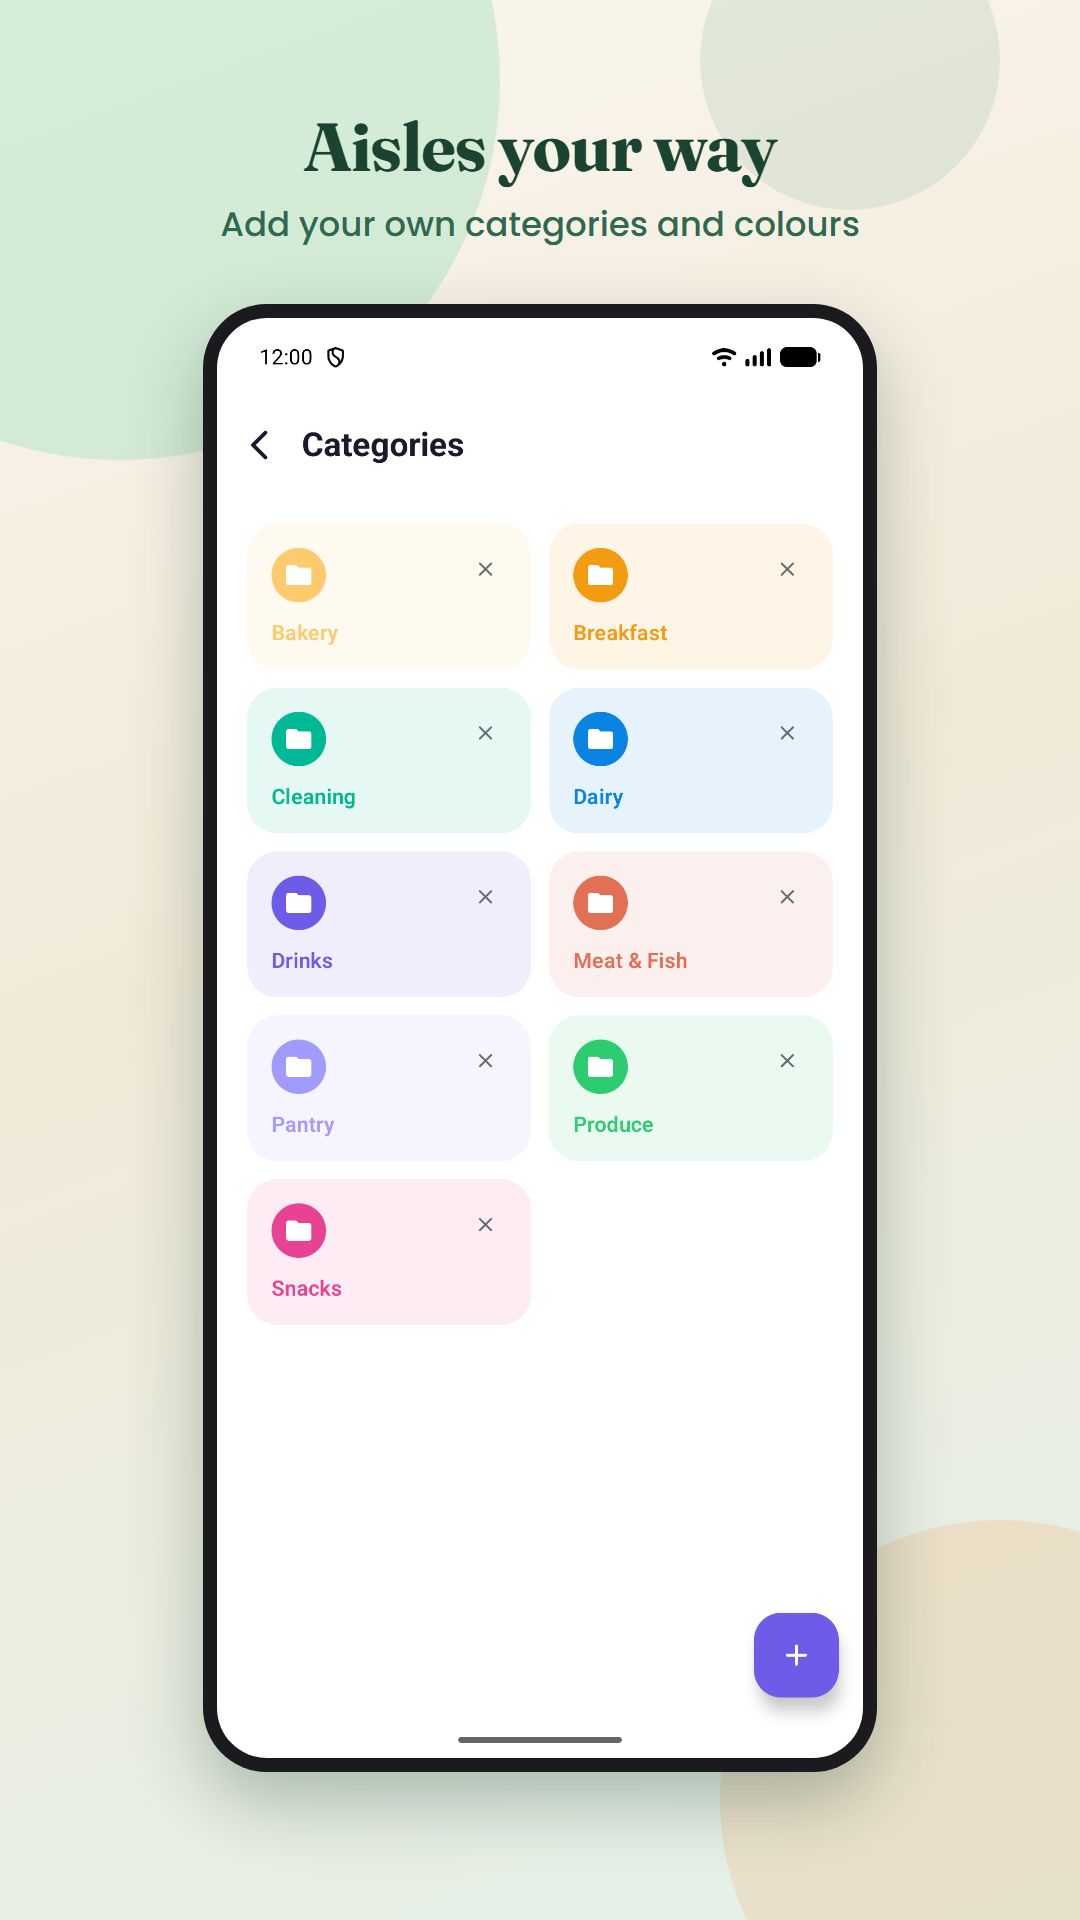
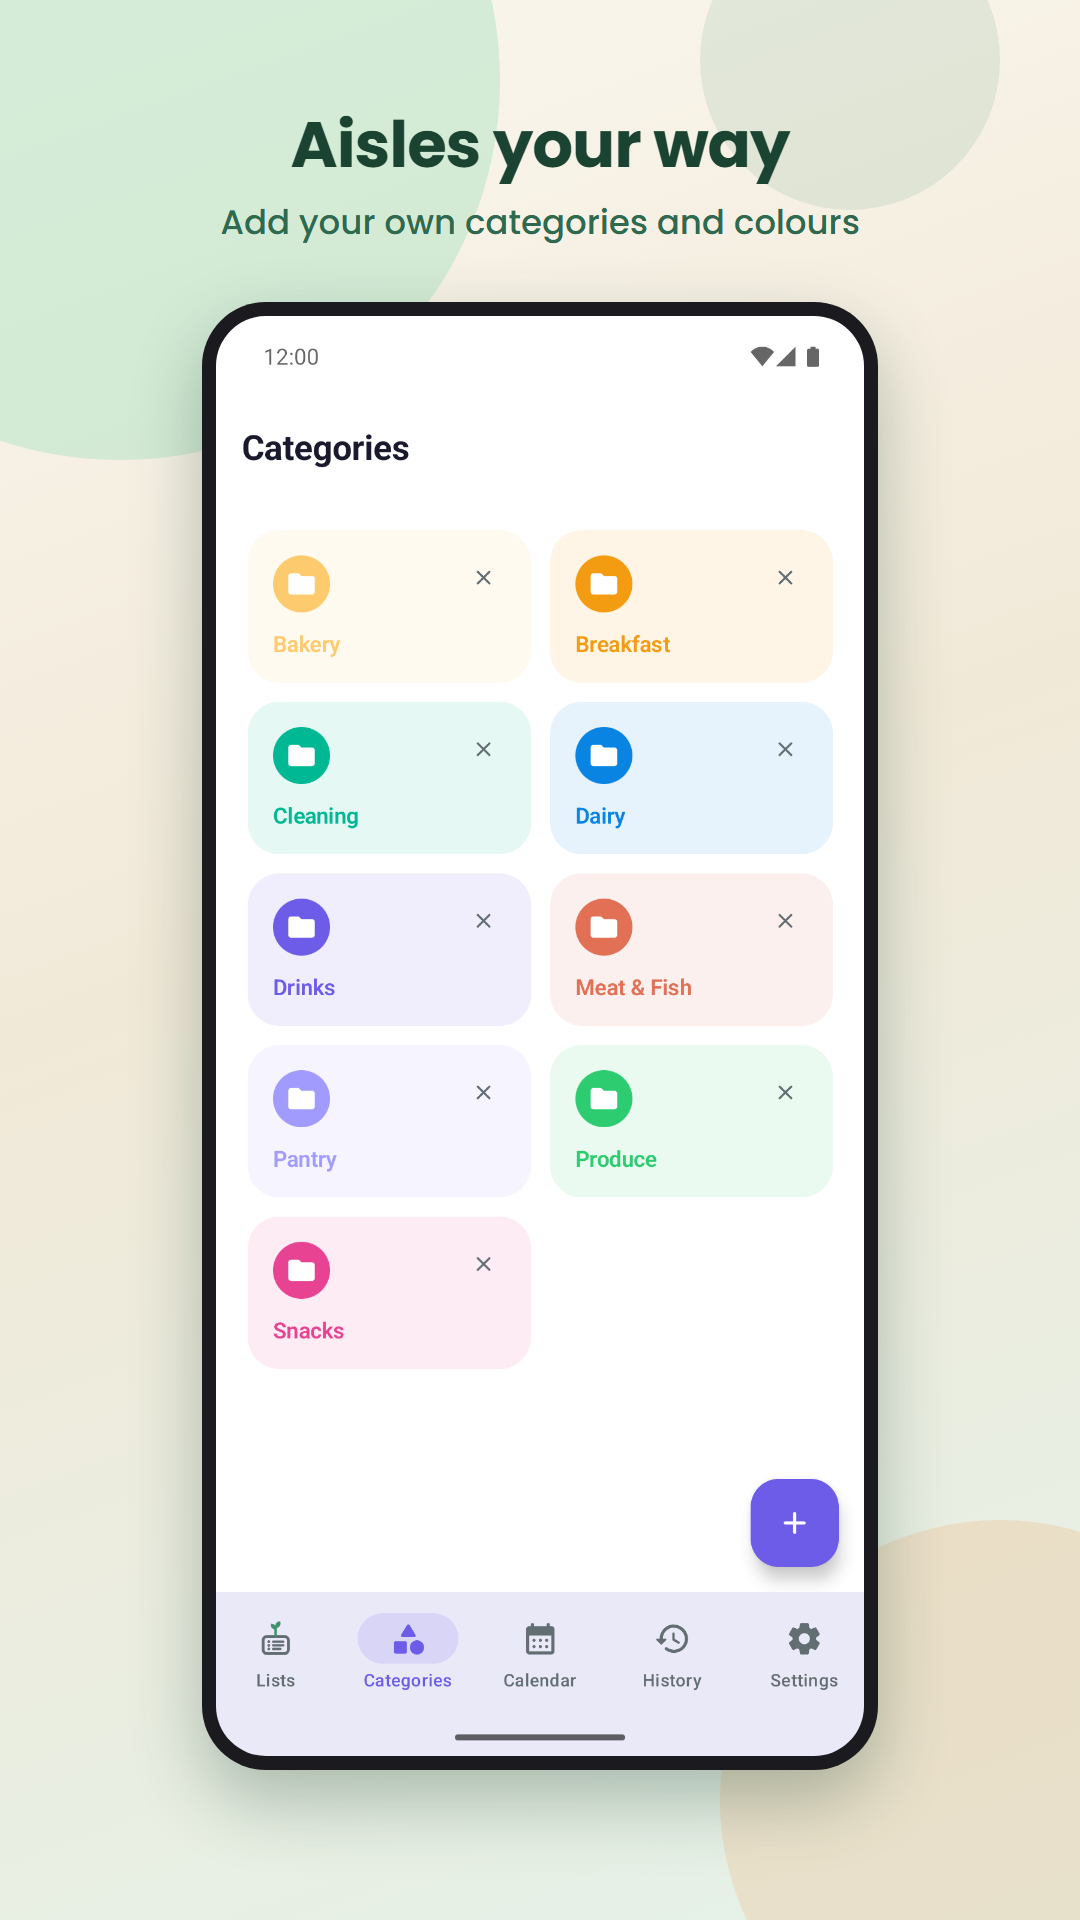
Refresh the store screenshots and README, add a demo data seeder
Retakes all phone screenshots for the current app (bottom navigation,
Bought section, list actions, region currency, Poppins titles) and adds
a seventh one showing the budget. Two accents are used to show theming.
The Play frame captions switch from Fraunces to Poppins to match the
app. The README shows the budget screenshot and describes the Bought
section and list actions.

The demo lists come from a debug-only broadcast receiver that seeds an
empty install, so the screenshots can be reproduced with one command.

diff --git a/app/src/debug/java/com/listo/app/debug/DemoDataReceiver.kt b/app/src/debug/java/com/listo/app/debug/DemoDataReceiver.kt
@@ -1,0 +1,153 @@
+package com.listo.app.debug
+
+import android.content.BroadcastReceiver
+import android.content.Context
+import android.content.Intent
+import android.util.Log
+import com.listo.app.data.models.ShoppingItem
+import com.listo.app.data.repository.CategoryRepository
+import com.listo.app.data.repository.ShoppingRepository
+import com.listo.app.domain.usecases.SeedCategoriesUseCase
+import com.listo.app.utils.GroceryCatalog
+import com.listo.app.utils.PreferencesManager
+import dagger.hilt.android.AndroidEntryPoint
+import kotlinx.coroutines.CoroutineScope
+import kotlinx.coroutines.Dispatchers
+import kotlinx.coroutines.flow.first
+import kotlinx.coroutines.launch
+import java.util.Calendar
+import javax.inject.Inject
+
+/**
+ * Debug builds only: fills an empty install with the demo lists used for the
+ * store screenshots and README.
+ *
+ *   adb shell am broadcast -a com.listo.app.debug.SEED_DEMO -p com.mopilappar.listo.debug
+ *
+ * Does nothing if any active list already exists, so it never mixes with real data.
+ */
+@AndroidEntryPoint
+class DemoDataReceiver : BroadcastReceiver() {
+
+    @Inject lateinit var shopping: ShoppingRepository
+    @Inject lateinit var categories: CategoryRepository
+    @Inject lateinit var seedCategories: SeedCategoriesUseCase
+    @Inject lateinit var prefs: PreferencesManager
+
+    override fun onReceive(context: Context, intent: Intent) {
+        val pending = goAsync()
+        CoroutineScope(Dispatchers.IO).launch {
+            try {
+                seed()
+            } finally {
+                pending.finish()
+            }
+        }
+    }
+
+    private suspend fun seed() {
+        if (shopping.getActiveLists().first().isNotEmpty()) {
+            Log.w(TAG, "Lists already exist; not seeding demo data")
+            return
+        }
+        if (!prefs.isCategoriesSeeded.first()) {
+            seedCategories()
+            prefs.setCategoriesSeeded(true)
+        }
+        val categoryIds = categories.getAllCategories().first().associate { it.name to it.id }
+
+        DemoData.lists.forEach { demo ->
+            val listId = shopping.createList(demo.name)
+            demo.budget?.let { shopping.setBudget(listId, it) }
+            demo.daysAhead?.let { days ->
+                val date = dayAt(days, DemoData.REMINDER_HOUR)
+                shopping.setSchedule(listId, scheduledDate = date, reminderAt = date)
+            }
+            demo.items.forEach { item ->
+                shopping.addItem(
+                    ShoppingItem(
+                        listId = listId,
+                        name = item.name,
+                        quantity = item.quantity,
+                        categoryId = categoryIds[item.category],
+                        price = item.price,
+                        isChecked = item.bought
+                    )
+                )
+            }
+        }
+        Log.i(TAG, "Seeded ${DemoData.lists.size} demo lists")
+    }
+
+    private fun dayAt(daysAhead: Int, hour: Int): Long = Calendar.getInstance().apply {
+        add(Calendar.DAY_OF_YEAR, daysAhead)
+        set(Calendar.HOUR_OF_DAY, hour)
+        set(Calendar.MINUTE, 0)
+        set(Calendar.SECOND, 0)
+        set(Calendar.MILLISECOND, 0)
+    }.timeInMillis
+
+    private companion object {
+        const val TAG = "DemoData"
+    }
+}
+
+/** The screenshot demo content, in English (screenshots are taken with the English UI). */
+private object DemoData {
+
+    const val REMINDER_HOUR = 9
+
+    class Item(
+        val name: String,
+        val category: String,
+        val price: Double? = null,
+        val quantity: String = "",
+        val bought: Boolean = false
+    )
+
+    class DemoList(
+        val name: String,
+        val items: List<Item>,
+        val budget: Double? = null,
+        val daysAhead: Int? = null
+    )
+
+    // Created in this order; the newest list is shown first.
+    val lists = listOf(
+        DemoList(
+            name = "Household",
+            items = listOf(
+                Item("Dish Soap", GroceryCatalog.CLEANING, 2.49),
+                Item("Toilet Paper", GroceryCatalog.CLEANING, 6.99, quantity = "12 rolls", bought = true),
+                Item("Trash Bags", GroceryCatalog.CLEANING, 4.29),
+                Item("Paper Towels", GroceryCatalog.CLEANING, 3.99)
+            )
+        ),
+        DemoList(
+            name = "Weekend BBQ",
+            daysAhead = 5,
+            items = listOf(
+                Item("Steak", GroceryCatalog.MEAT, 18.50, quantity = "1 kg"),
+                Item("Sausage", GroceryCatalog.MEAT, 5.99),
+                Item("Buns", GroceryCatalog.BAKERY, 2.99, bought = true),
+                Item("Cola", GroceryCatalog.DRINKS, 3.49, quantity = "2 L"),
+                Item("Chips", GroceryCatalog.SNACKS, 2.79),
+                Item("Lemonade", GroceryCatalog.DRINKS, 2.99)
+            )
+        ),
+        DemoList(
+            name = "Weekly Groceries",
+            budget = 40.0,
+            daysAhead = 2,
+            items = listOf(
+                Item("Bananas", GroceryCatalog.PRODUCE, 2.49),
+                Item("Tomatoes", GroceryCatalog.PRODUCE, 2.99, quantity = "500 g"),
+                Item("Chicken", GroceryCatalog.MEAT, 8.99),
+                Item("Coffee beans", GroceryCatalog.DRINKS, 7.99),
+                Item("Eggs", GroceryCatalog.BREAKFAST, 3.49, quantity = "12"),
+                Item("Milk", GroceryCatalog.DAIRY, 1.49, bought = true),
+                Item("Sourdough bread", GroceryCatalog.BAKERY, 4.50, bought = true)
+            )
+        )
+    )
+}

diff --git a/store/graphics/play-screenshot.html b/store/graphics/play-screenshot.html
@@ -7,7 +7,7 @@
 -->
 <link rel="preconnect" href="https://fonts.googleapis.com">
 <link rel="preconnect" href="https://fonts.gstatic.com" crossorigin>
-<link href="https://fonts.googleapis.com/css2?family=Fraunces:opsz,wght@9..144,700&family=Poppins:wght@400;500&display=swap" rel="stylesheet">
+<link href="https://fonts.googleapis.com/css2?family=Poppins:wght@400;500;700&display=swap" rel="stylesheet">
 <style>
   html,body{margin:0;padding:0;width:1080px;height:1920px;overflow:hidden}
   .stage{position:relative;width:1080px;height:1920px;overflow:hidden;box-sizing:border-box;
@@ -18,7 +18,7 @@
   .b2{width:560px;height:560px;right:-200px;bottom:-160px;background:rgba(244,162,89,.20)}
   .b3{width:300px;height:300px;right:80px;top:-90px;background:rgba(64,145,108,.12)}
   h1{position:relative;margin:0;max-width:940px;text-align:center;color:#1B4332;
-     font-family:'Fraunces',Georgia,serif;font-weight:700;font-size:68px;line-height:1.06;letter-spacing:-1px}
+     font-family:'Poppins',system-ui,sans-serif;font-weight:700;font-size:64px;line-height:1.1;letter-spacing:-1px}
   p{position:relative;margin:20px 0 0;max-width:900px;text-align:center;color:#2D6A4F;
     font-family:'Poppins',system-ui,sans-serif;font-weight:500;font-size:34px;line-height:1.35}
   .phone{position:relative;margin-top:56px;padding:14px;border-radius:64px;background:#1B1B1F;

diff --git a/store/RELEASE-CHECKLIST.md b/store/RELEASE-CHECKLIST.md
@@ -5,11 +5,11 @@ still need work. Items marked **BLOCKER** must be fixed before a public release.
 
 ## 1. Store assets — done
 
-- [x] Phone screenshots (6), English — `store/screenshots/phone-en/`
+- [x] Phone screenshots (7), English — `store/screenshots/phone-en/`
       (02–06 retaken on 15 September 2026 after the accent-colour update, with a clean
       demo-mode status bar; 01 onboarding does not use the accent and is unchanged).
       These are the raw captures and are **not** what Play accepts — see below.
-- [x] Play-ready phone screenshots (6), English — `store/screenshots/play-phone-en/`
+- [x] Play-ready phone screenshots (7), English — `store/screenshots/play-phone-en/`
       **Upload these.** 1080×1920 (9:16), 24-bit PNG without alpha, each screen framed
       in a phone with a short caption, rendered from the raw captures by
       `store/graphics/render-play-screenshots.ps1` (frame: `play-screenshot.html`).
@@ -18,8 +18,10 @@ still need work. Items marked **BLOCKER** must be fixed before a public release.
       9:16 at 1080×1920 or larger is also what large-format promotion asks for.
 - [x] App icon 512×512 PNG — `store/graphics/icon-512.png` (the sprout; same artwork as the
       launcher icon and the splash screen)
-- [ ] Re-capture the phone screenshots: they predate the Poppins titles, the region
-      currency (prices were always shown in ₺) and the translated categories (17 November 2026).
+- [x] Phone screenshots re-captured on 17 November 2026 (7 shots, 07 = budget) after the
+      Poppins titles, region currency, translated categories, bottom navigation, Bought
+      section and list actions. 02/03/07 use the Green accent, 04-06 Purple, to show theming.
+      Demo data comes from the debug-only DemoDataReceiver (see its KDoc for the adb command).
 - [x] Feature graphic 1024×500 PNG — `store/graphics/feature-graphic-1024x500.png`
 - [x] Listing copy in English, Turkish, Swedish — `store/listing/`
 - [x] Privacy policy page — `docs/privacy-policy.html`

diff --git a/README.md b/README.md
@@ -21,18 +21,24 @@
 
 ## Screenshots
 
-| Lists | Auto-sorted items | Calendar | Accent colours |
-|---|---|---|---|
-| <img src="store/screenshots/phone-en/02-my-lists.png" width="200"> | <img src="store/screenshots/phone-en/03-list-detail.png" width="200"> | <img src="store/screenshots/phone-en/05-calendar.png" width="200"> | <img src="store/screenshots/phone-en/06-settings.png" width="200"> |
+| Lists | Auto-sorted items | Budget |
+|---|---|---|
+| <img src="store/screenshots/phone-en/02-my-lists.png" width="220"> | <img src="store/screenshots/phone-en/03-list-detail.png" width="220"> | <img src="store/screenshots/phone-en/07-budget.png" width="220"> |
+
+| Categories | Calendar | Accent colours |
+|---|---|---|
+| <img src="store/screenshots/phone-en/04-categories.png" width="220"> | <img src="store/screenshots/phone-en/05-calendar.png" width="220"> | <img src="store/screenshots/phone-en/06-settings.png" width="220"> |
 
 ## What it does
 
 - **Sorts itself.** Type an item and Listo files it under the matching aisle —
   produce, dairy, bakery, meat & fish, drinks, pantry, cleaning, breakfast, snacks.
-- **Tracks progress.** Tick items as you shop; ticked ones drop to the bottom and a
-  progress bar shows how much is left.
+- **Tracks progress.** Tick items as you shop; ticked ones move to a Bought section at
+  the bottom and a progress bar shows how much is left.
 - **Watches the budget.** Give items a price and the list a budget; Listo shows what's
-  left or how far over you are.
+  left or how far over you are, in your phone's currency.
+- **Reuses lists.** Rename, share, copy or delete a list from My Lists — tap ⋮ or swipe
+  it left. A copy comes back with every item unticked, ready for next week.
 - **Plans ahead.** Schedule a list for a date with an optional reminder, and see the
   whole month in the built-in calendar.
 - **Keeps history.** Finished lists move to History rather than disappearing.
